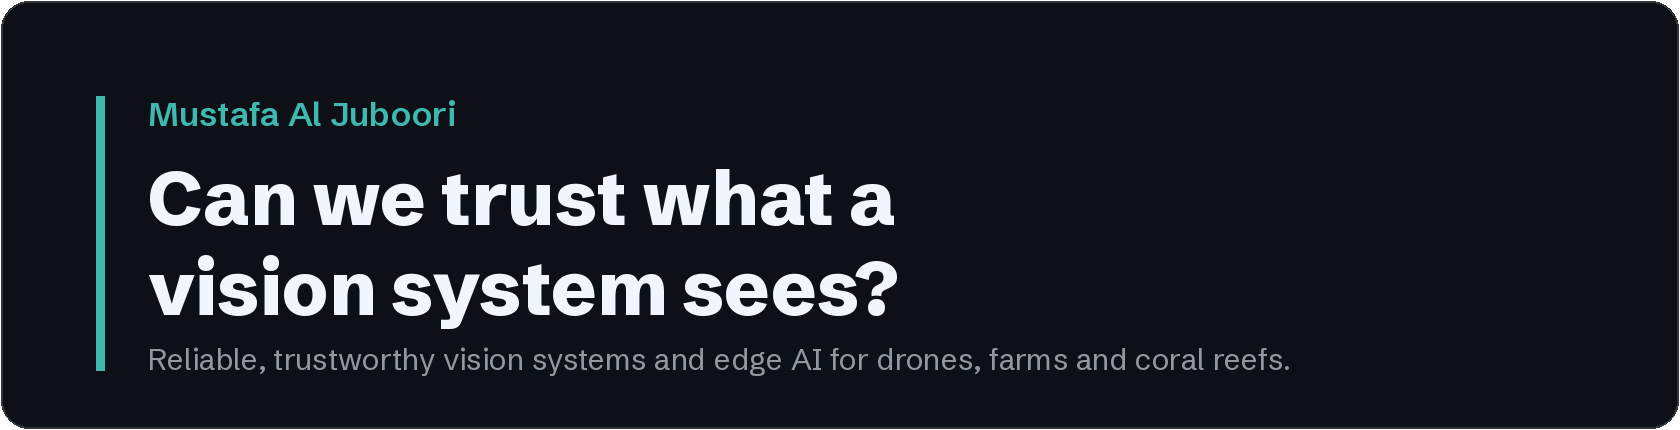
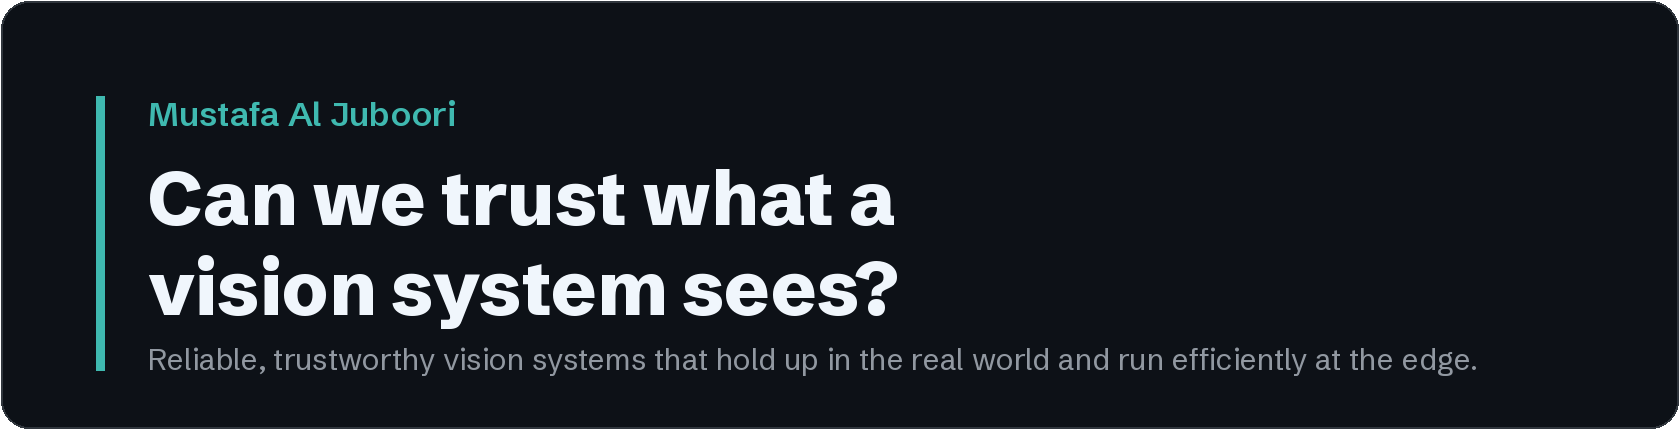
Research statement without the drones/farms/reefs list

Changed region(s): [[0.3714, 0.8163, 0.8976, 0.8767]]

diff --git a/README.md b/README.md
@@ -1,13 +1,13 @@
 <picture>
   <source media="(prefers-color-scheme: dark)" srcset="assets/banner-dark.png">
-  <img src="assets/banner-light.png" alt="Mustafa Al Juboori. Can we trust what a vision system sees? Reliable, trustworthy vision systems and edge AI for drones, farms and coral reefs." width="100%">
+  <img src="assets/banner-light.png" alt="Mustafa Al Juboori. Can we trust what a vision system sees? Reliable, trustworthy vision systems that hold up in the real world and run efficiently at the edge." width="100%">
 </picture>
 
 **Computer & AI Engineering @ UAEU · Research Assistant, Autonomous Systems Lab, UAEU · Visiting Researcher, eBRAIN Lab, NYU Abu Dhabi**
 
 Undergraduate at United Arab Emirates University (CGPA 3.95/4.0, graduating May 2027).
 
-I build **reliable and trustworthy vision systems** and run them at the edge, where errors are costly: on drones, in farms and on coral reefs.
+I build **reliable, trustworthy vision systems** that hold up in the real world and run efficiently at the edge.
 
 **Research interests:** efficient and reliable computer vision · multimodal vision-language reasoning · agentic AI · robust perception · edge AI
 
